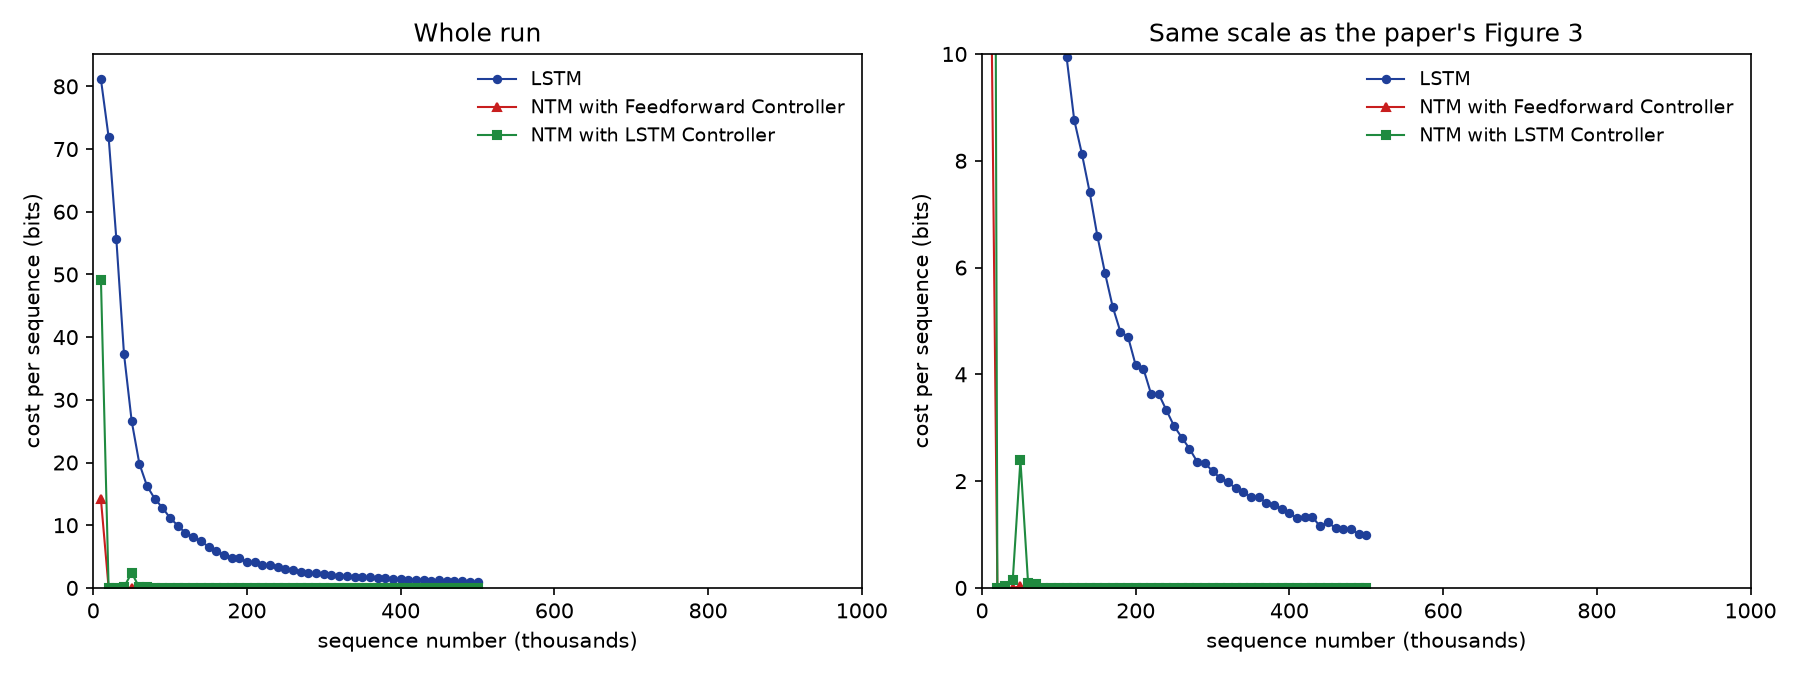
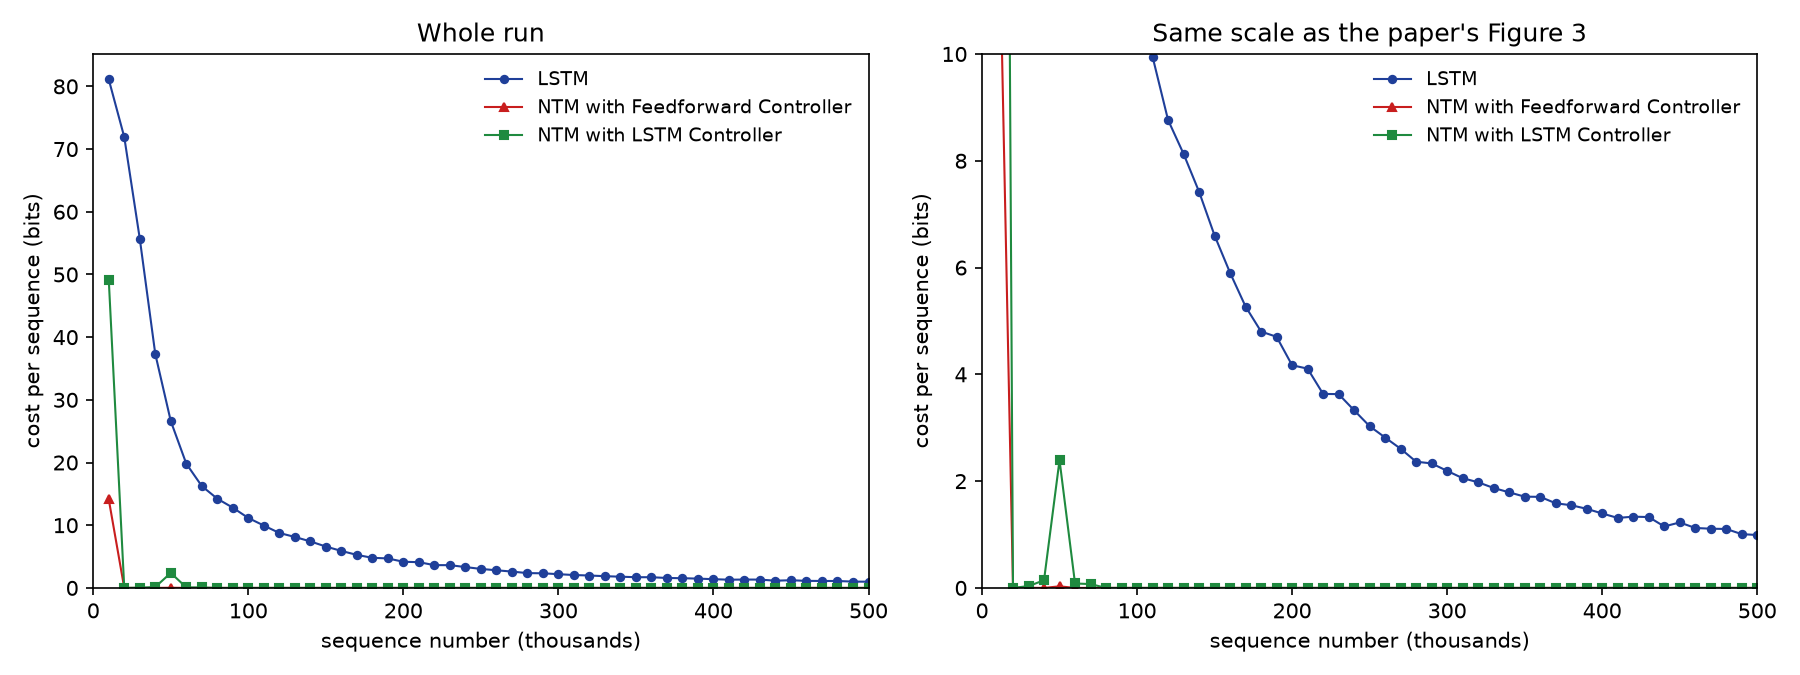
Scale the learning curve's x-axis to the length of the run

diff --git a/src/plots.py b/src/plots.py
@@ -89,7 +89,9 @@ def plot_all_learning_curves(log_paths: dict, out_path: str, chunk: int = 10_000
             ax.plot(thousands, cost, marker=marker, color=colour, markersize=3.5, linewidth=1, label=label)
 
     for ax in (full, paper):
-        ax.set_xlim(0, max(1000, longest))
+        # The paper's Figure 3 runs to 1000k because that is how long it trained; ours ends where
+        # the run ends, so the curve fills the axis instead of hugging the left edge.
+        ax.set_xlim(0, longest)
         ax.set_xlabel("sequence number (thousands)")
         ax.set_ylabel("cost per sequence (bits)")
         ax.legend(frameon=False, fontsize=9)
